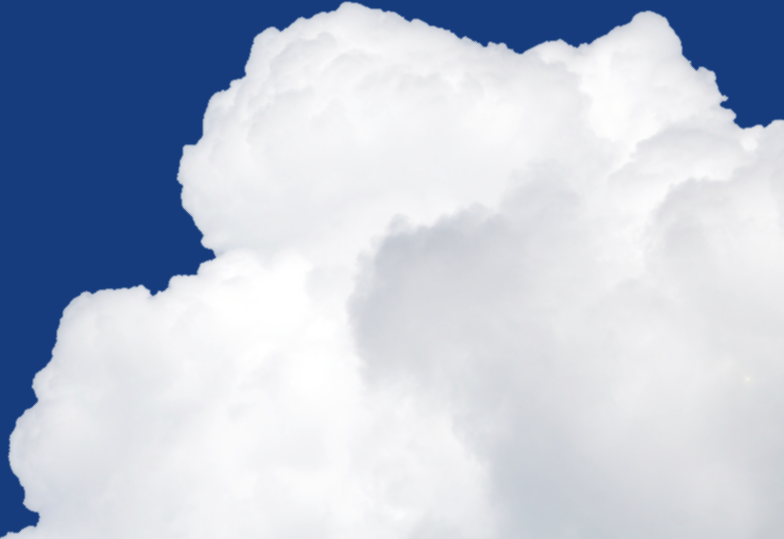
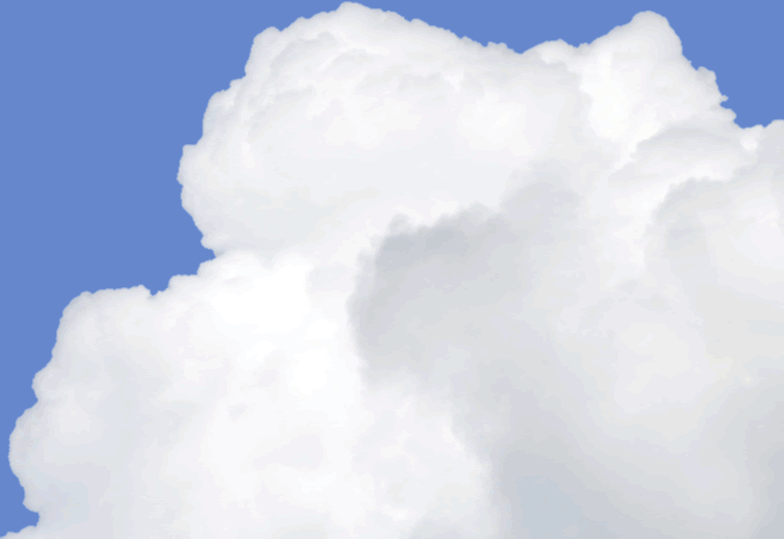
Lighter blue requested by Ed

Changed region(s): [[0.0, 0.0, 1.0, 1.0]]

diff --git a/content/css/master.css b/content/css/master.css
@@ -1,7 +1,7 @@
 /* this is the master css we will use for styling */
 
 body {
-	background:url(/images/bg.png) no-repeat fixed 100% 100% #163c7d;
+	background:url(/images/bg.png) no-repeat fixed 100% 100% #6687CC;
 	padding: 33px 0; font-size: 15px;
 }
 

diff --git a/output/css/master.css b/output/css/master.css
@@ -1,7 +1,7 @@
 /* this is the master css we will use for styling */
 
 body {
-	background:url(/images/bg.png) no-repeat fixed 100% 100% #163c7d;
+	background:url(/images/bg.png) no-repeat fixed 100% 100% #6687CC;
 	padding: 33px 0; font-size: 15px;
 }
 
